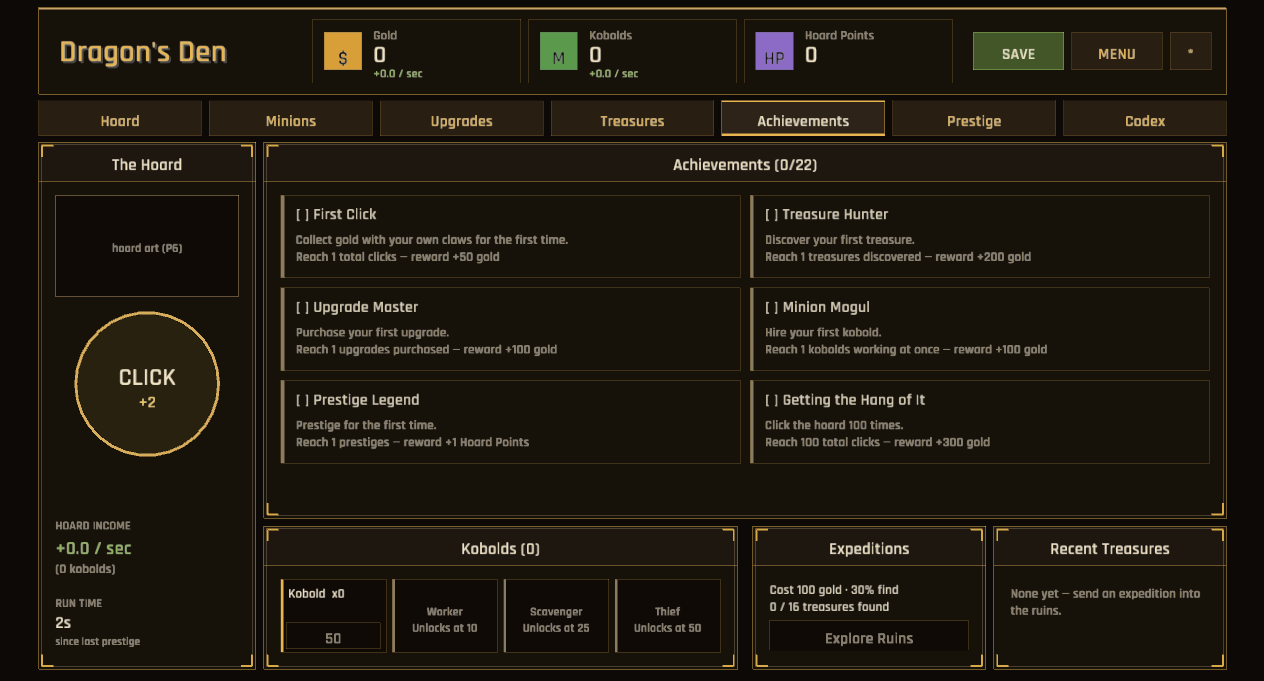
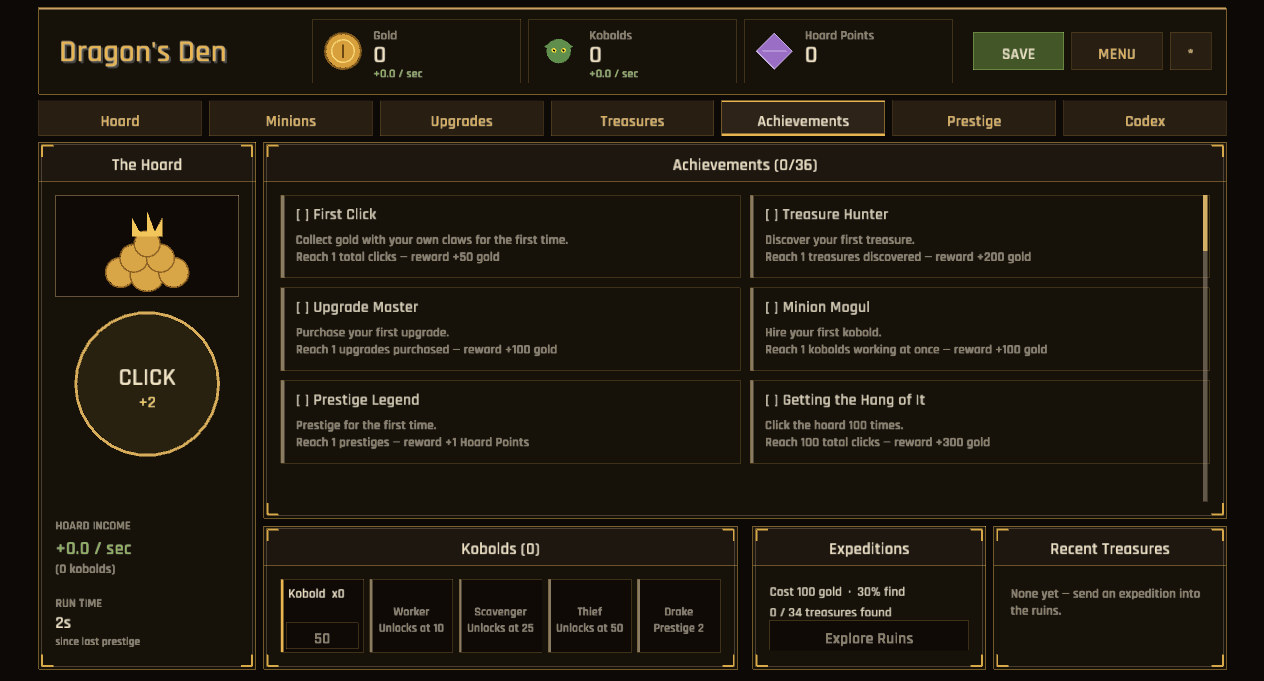
Content depth: extend the achievement ladder 22 -> 36
Every system now has a long achievement chase, and the new engagement
mechanics are finally rewarded.

- Two new lifetime counters (expeditions_launched, golden_hoards_collected;
  serde(default) so old saves load), incremented in try_explore and
  collect_golden_hoard, exposed via new StatKey variants.
- 14 new achievements: mechanic-covering (Glint Catcher / Frenzy Addict for
  Golden Hoards #9; Ruin Delver / Tomb Raider for expeditions #8) plus deeper
  tiers of every existing ladder — 50k clicks, trillion gold, 100/200 kobolds
  (the latter tying into the #11 soft-cap wall), 150 upgrades, prestige
  3/25/50, a 30-achievement Completionist, and Antiquarian (20 treasures)
  filling the 10 -> 34 gap.
- StatKey exhaustive matches (stat_value, condition_text) extended for the
  new stats.

Validation: cargo test (48, incl. a new test asserting both counters bump on
their mechanic), clippy, fmt all clean; balance guards unaffected (the sim
doesn't award achievements). Achievements tab captured (header now 0/36; new
deeper-tier rows verified via a throwaway scroll seed, reverted) — cards read
cleanly with no overflow.

diff --git a/src/state/gameplay.rs b/src/state/gameplay.rs
@@ -141,6 +141,13 @@ pub struct LifetimeStats {
     pub clicks_total: f64,
     pub gold_total_earned: f64,
     pub upgrades_purchased: f64,
+    /// Expeditions launched (#8 mechanic) — every paid or salvage dig. New
+    /// counter, so `serde(default)` keeps old saves loadable.
+    #[serde(default)]
+    pub expeditions_launched: f64,
+    /// Golden Hoard glints collected (#9 mechanic).
+    #[serde(default)]
+    pub golden_hoards_collected: f64,
 }
 
 /// Everything preserved across prestige resets (GDD §5.4).
@@ -433,6 +440,7 @@ impl GameplayState {
     pub fn collect_golden_hoard(&mut self, data: &GameData) -> bool {
         if self.golden_hoard.take().is_some() {
             self.frenzy_secs = data.config.dragon_frenzy_seconds;
+            self.persistent.stats.golden_hoards_collected += 1.0;
             self.schedule_next_glint(data);
             true
         } else {
@@ -589,6 +597,7 @@ impl GameplayState {
         if self.run.gold < cost {
             return Err(BuyError::CannotAfford);
         }
+        self.persistent.stats.expeditions_launched += 1.0;
         let chance = self.discovery_chance(data);
         let outcome = exploration::roll_treasure(
             &mut self.persistent.rng,
@@ -729,6 +738,8 @@ impl GameplayState {
             StatKey::UpgradesPurchased => self.persistent.stats.upgrades_purchased,
             StatKey::PrestigeCount => f64::from(self.persistent.prestige_count),
             StatKey::AchievementsUnlocked => self.persistent.achievements.progress().0 as f64,
+            StatKey::ExpeditionsLaunched => self.persistent.stats.expeditions_launched,
+            StatKey::GoldenHoardsCollected => self.persistent.stats.golden_hoards_collected,
         }
     }
 

diff --git a/src/state/gameplay/tests.rs b/src/state/gameplay/tests.rs
@@ -3,6 +3,7 @@
 //! `gameplay.rs` under the file-size limit as the state surface grows.
 
 use super::*;
+use crate::data::StatKey;
 use crate::save;
 
 fn setup() -> (GameData, GameplayState) {
@@ -226,6 +227,23 @@ fn golden_hoard_click_grants_dragons_frenzy() {
     state.advance_events(&data, data.config.dragon_frenzy_seconds as f32 + 0.1);
     assert!(!state.frenzy_active());
     assert!((state.gold_per_click(&data) - base_click).abs() < 1e-6);
+}
+
+#[test]
+fn lifetime_counters_track_new_mechanics() {
+    let (data, mut state) = setup();
+    assert_eq!(state.stat_value(StatKey::ExpeditionsLaunched), 0.0);
+    assert_eq!(state.stat_value(StatKey::GoldenHoardsCollected), 0.0);
+
+    // Launching an expedition bumps its lifetime counter.
+    state.run.gold = 1e6;
+    state.try_explore(&data).unwrap();
+    assert_eq!(state.stat_value(StatKey::ExpeditionsLaunched), 1.0);
+
+    // Collecting a Golden Hoard bumps its counter.
+    state.advance_events(&data, data.config.golden_hoard_min_interval as f32 + 0.1);
+    assert!(state.collect_golden_hoard(&data));
+    assert_eq!(state.stat_value(StatKey::GoldenHoardsCollected), 1.0);
 }
 
 #[test]

diff --git a/src/ui.rs b/src/ui.rs
@@ -504,6 +504,8 @@ pub(crate) fn condition_text(condition: &StatCondition, data: &GameData) -> Stri
         StatKey::UpgradesPurchased => "upgrades purchased",
         StatKey::PrestigeCount => "prestiges",
         StatKey::AchievementsUnlocked => "achievements unlocked",
+        StatKey::ExpeditionsLaunched => "expeditions launched",
+        StatKey::GoldenHoardsCollected => "Golden Hoards collected",
     };
     format!("Reach {} {}", format_amount(condition.gte), noun)
 }

diff --git a/src/data.rs b/src/data.rs
@@ -100,6 +100,8 @@ pub enum StatKey {
     UpgradesPurchased,
     PrestigeCount,
     AchievementsUnlocked,
+    ExpeditionsLaunched,
+    GoldenHoardsCollected,
 }
 
 /// Threshold condition shared by achievements and dragon-codex unlocks.

diff --git a/ENGAGEMENT_REVIEW.md b/ENGAGEMENT_REVIEW.md
@@ -69,9 +69,17 @@ ways to make it entertaining. All numbers are the ones actually shipping in
 > agreement. The cap (60) sits above the first-prestige goblin count (~44), so
 > it's a *late-game* wall — guards stay green and unchanged (19.7 min / 30%).
 > Minions tab shows a "Kobold soft cap N/60" readout (typed tiers exempt).
-> **All of Tiers 1–3 are done.** Next: **content depth** — extend ladders
-> (more prestige-tree tiers, minion tiers, achievements) per the review's
-> content-depth bullet.
+> **All of Tiers 1–3 are done.**
+>
+> **Content depth — achievements 22 → 36:** added two new lifetime counters
+> (`expeditions_launched`, `golden_hoards_collected`, both `serde(default)`)
+> that let achievements cover the new mechanics — Glint Catcher / Frenzy Addict
+> (#9), Ruin Delver / Tomb Raider (#8) — plus deeper tiers of every existing
+> ladder (clicks 50k, trillion gold, 100/200 kobolds tying into the #11
+> soft-cap wall, 150 upgrades, prestige 3/25/50, a 30-achievement
+> Completionist). `StatKey` + `condition_text` + `stat_value` extended to
+> match. Next content-depth targets: **codex dragons 8 → 12+**, a 5th/6th
+> minion tier for deep prestige, more prestige-tree tiers per branch.
 
 ---
 
